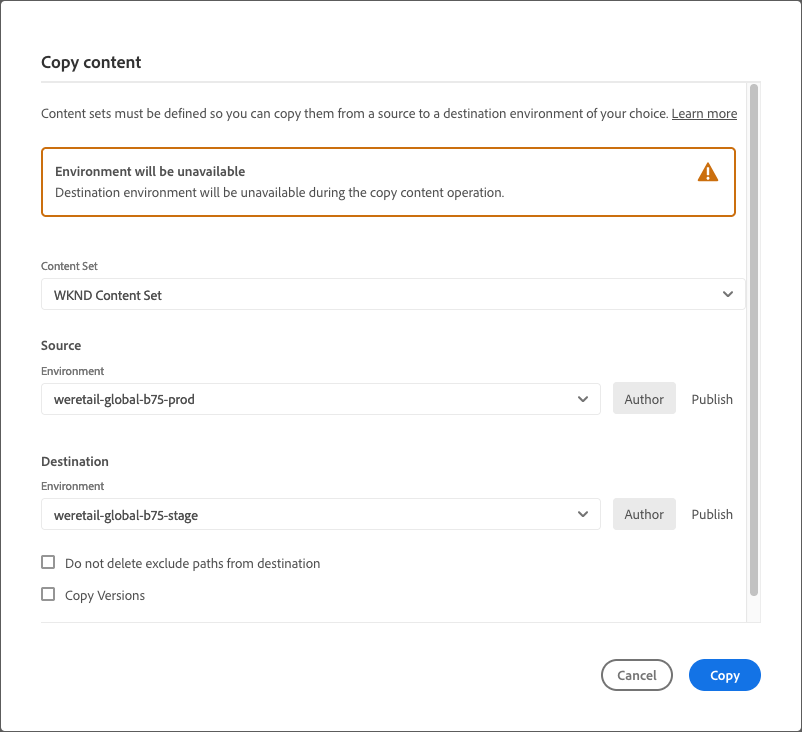
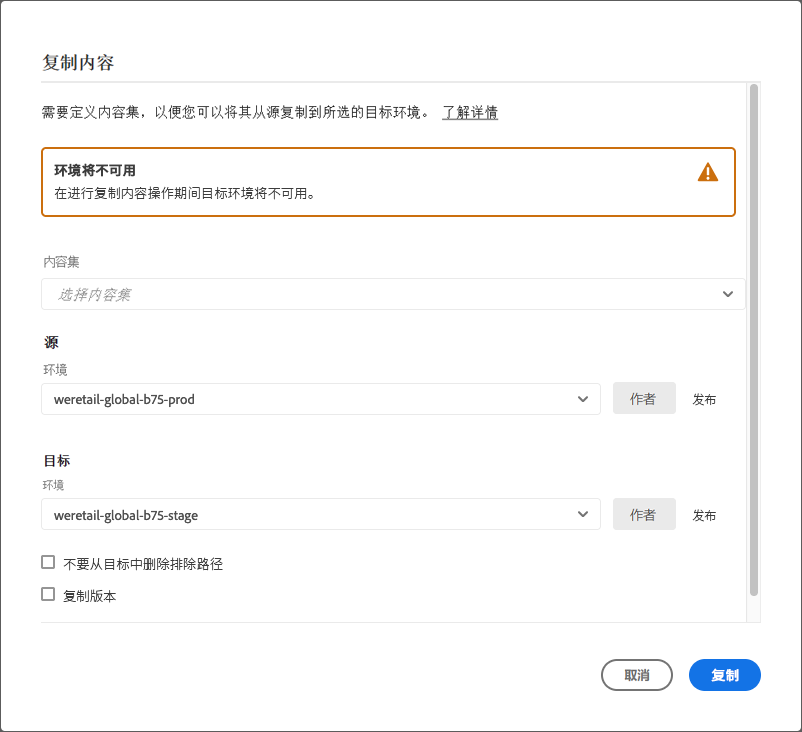
Updated by task 'AUTO_HANDOFF_1734018634753'  Changes for core/source commit https://git.corp.adobe.com/AdobeDocs/experience-manager-cloud-manager.en/commit/d0a95996dfe489ba2ff0a5354223a5355187be72

diff --git a/help/release-notes/current.md b/help/release-notes/current.md
@@ -1,20 +1,20 @@
 ---
 title: Cloud Manager 2024.12.0 版的发行说明
-description: 了解关于Adobe Managed Services的Cloud Manager 2024.12.0版。
+description: 了解 Adobe Managed Services 上有关 Cloud Manager 2024.12.0 版本的信息。
 feature: Release Information
 exl-id: 811567af-66c9-4c1f-ae9e-60603b70ef80
 source-git-commit: e266a4192e2a897f142a6c83ae5766483946320d
-workflow-type: tm+mt
+workflow-type: ht
 source-wordcount: '312'
-ht-degree: 70%
+ht-degree: 100%
 
 ---
 
-# AdobeManaged Services上的Cloud Manager 2024.12.0发行说明 {#release-notes}
+# Adobe Managed Services 上 Cloud Manager 2024.12.0 版的发行说明 {#release-notes}
 
 <!-- RELEASE WIKI  https://wiki.corp.adobe.com/display/DMSArchitecture/Cloud+Manager+2024.12.0+Release -->
 
-了解有关AdobeManaged Services的[!UICONTROL Cloud Manager] 2024.12.0版本。
+了解 Adobe Managed Services 上有关 [!UICONTROL Cloud Manager] 2024.12.0 版本的信息。
 
 >[!NOTE]
 >
@@ -24,9 +24,9 @@ ht-degree: 70%
 
 <!-- SAVE FOR FUTURE POSSIBLE USE No notable bugs or features for the September release of Cloud Manager. -->
 
-[!UICONTROL Cloud Manager] 2024.12.0的发布日期是2024年12月5日。
+[!UICONTROL Cloud Manager] 2024.12.0 版的发布日期是 2024 年 12 月 5 日。
 
-下一个计划发行日期为2025年1月23日。
+下一个版本计划于 2025 年 1 月 23 日发布。
 
 <!-- ## What's new {#what-is-new} -->
 
@@ -40,9 +40,9 @@ ht-degree: 70%
 
 <!-- BOTH CS & AMS -->
 
-**自带Git**&#x200B;功能已扩展到包括对外部存储库（如GitLab和Bitbucket）的支持。 这项新的支持是对专用和企业 GitHub 存储库现有支持的补充。添加这些新的存储库时，您还可以将它们直接链接到管道。您可以在公共云平台、专用云平台或基础架构中托管这些存储库。这种集成还消除了与 Adobe 存储库持续同步代码的需要，并提供了在提取请求合并到主分支之前对其进行验证的功能。
+**自带 Git** 功能已得到扩展，包括对 GitLab 和 Bitbucket 等外部存储库的支持。这项新的支持是对专用和企业 GitHub 存储库现有支持的补充。添加这些新的存储库时，您还可以将它们直接链接到管道。您可以在公共云平台、专用云平台或基础架构中托管这些存储库。这种集成还消除了与 Adobe 存储库持续同步代码的需要，并提供了在提取请求合并到主分支之前对其进行验证的功能。
 
-使用外部存储库（不包括GitHub托管的存储库）且&#x200B;**部署触发器**&#x200B;在Git更改&#x200B;**上设置为**&#x200B;的管道现在会自动启动。
+使用外部存储库（不包括 GitHub 托管的存储库）和&#x200B;**部署触发器**&#x200B;设置为&#x200B;**在 Git 发生更改时**&#x200B;的管道现在会自动启动。
 
 请参阅[在 Cloud Manager 中添加外部存储库](/help/managing-code/external-repositories.md)。
 

diff --git a/help/release-notes/2024/2024-11-0.md b/help/release-notes/2024/2024-11-0.md
@@ -2,10 +2,11 @@
 title: Cloud Manager 2024.11.0 版的发行说明
 description: 了解有关 Cloud Manager 2024.11.0 版本的信息。
 feature: Release Information
-source-git-commit: ae68ced52335603b05fda21f268a038d482e9fa6
-workflow-type: tm+mt
+exl-id: e5b5f748-2dd8-4195-b0c8-379a9ad7bf90
+source-git-commit: 77f377e2a2f2942fdc612edf738405db902c4391
+workflow-type: ht
 source-wordcount: '452'
-ht-degree: 90%
+ht-degree: 100%
 
 ---
 
@@ -37,7 +38,7 @@ ht-degree: 90%
 
 <!-- BOTH CS & AMS -->
 
-**自带Git**&#x200B;功能已扩展到包括对外部存储库（如GitLab和Bitbucket）的支持。 这项新的支持是对专用和企业 GitHub 存储库现有支持的补充。添加这些新的存储库时，您还可以将它们直接链接到管道。您可以在公共云平台、专用云平台或基础架构中托管这些存储库。这种集成还消除了与 Adobe 存储库持续同步代码的需要，并提供了在提取请求合并到主分支之前对其进行验证的功能。
+**自带 Git** 功能已得到扩展，包括对 GitLab 和 Bitbucket 等外部存储库的支持。这项新的支持是对专用和企业 GitHub 存储库现有支持的补充。添加这些新的存储库时，您还可以将它们直接链接到管道。您可以在公共云平台、专用云平台或基础架构中托管这些存储库。这种集成还消除了与 Adobe 存储库持续同步代码的需要，并提供了在提取请求合并到主分支之前对其进行验证的功能。
 
 请参阅[在 Cloud Manager 中添加外部存储库](/help/managing-code/external-repositories.md)。
 
@@ -57,7 +58,7 @@ Adobe 宣布推出对[仅暂存和仅生产管道](/help/using/stage-prod-only.m
 
 ## 错误修复
 
-* AEM Cloud Manager 中的一个错误导致在内容复制操作的状态更新期间出现“403”错误，该错误现已解决。错误配置的入口IP地址导致状态传播问题。 它使某些内容复制活动停滞不前并无限期地运行，需要手动取消。 此修复现在可以确保正确的状态报告和更顺畅地执行内容复制任务。<!-- (CMGR-62739) -->
+* AEM Cloud Manager 中的一个错误导致在内容复制操作的状态更新期间出现“403”错误，该错误现已解决。错误配置的入口 IP 地址导致状态传播问题。它导致一些内容复制活动停滞并无限期运行，需要手动取消。此修复现在可以确保正确的状态报告和更顺畅地执行内容复制任务。<!-- (CMGR-62739) -->
 * 最近的更新解决了 SonarQube 中在某些情况下无法检测到硬编码密码的问题。目前的修复包括扩展模式检查，并与 SonarQube 中的默认检测标准保持一致。<!-- CMGR-62682 -->
 
 <!-- Known Issues {#known-issues}

diff --git a/help/main-toc/TOC.md b/help/main-toc/TOC.md
@@ -8,9 +8,9 @@ feature-set: Experience Manager Cloud Manager, Experience Manager
 feature: Cloud Manager
 role: Admin
 source-git-commit: 2c96feb62a4db2424430c9c410563a7f61320fd2
-workflow-type: tm+mt
+workflow-type: ht
 source-wordcount: '349'
-ht-degree: 98%
+ht-degree: 100%
 
 ---
 
@@ -56,7 +56,7 @@ ht-degree: 98%
    + [Cloud Manager CLI](https://github.com/adobe/aio-cli-plugin-cloudmanager/blob/main/README.md)
    + [通知](/help/using/notifications.md)
    + [自定义代码质量规则](/help/using/custom-code-quality-rules.md)
-   + [内容拷贝以实现环境一致性](/help/using/content-copy.md)
+   + [内容复制以实现环境一致性](/help/using/content-copy.md)
 + 管理代码 {#managing-code}
    + [在 Cloud Manager 中管理存储库](/help/managing-code/managing-repositories.md)
    + [存储库访问信息](/help/managing-code/accessing-repositories.md)
